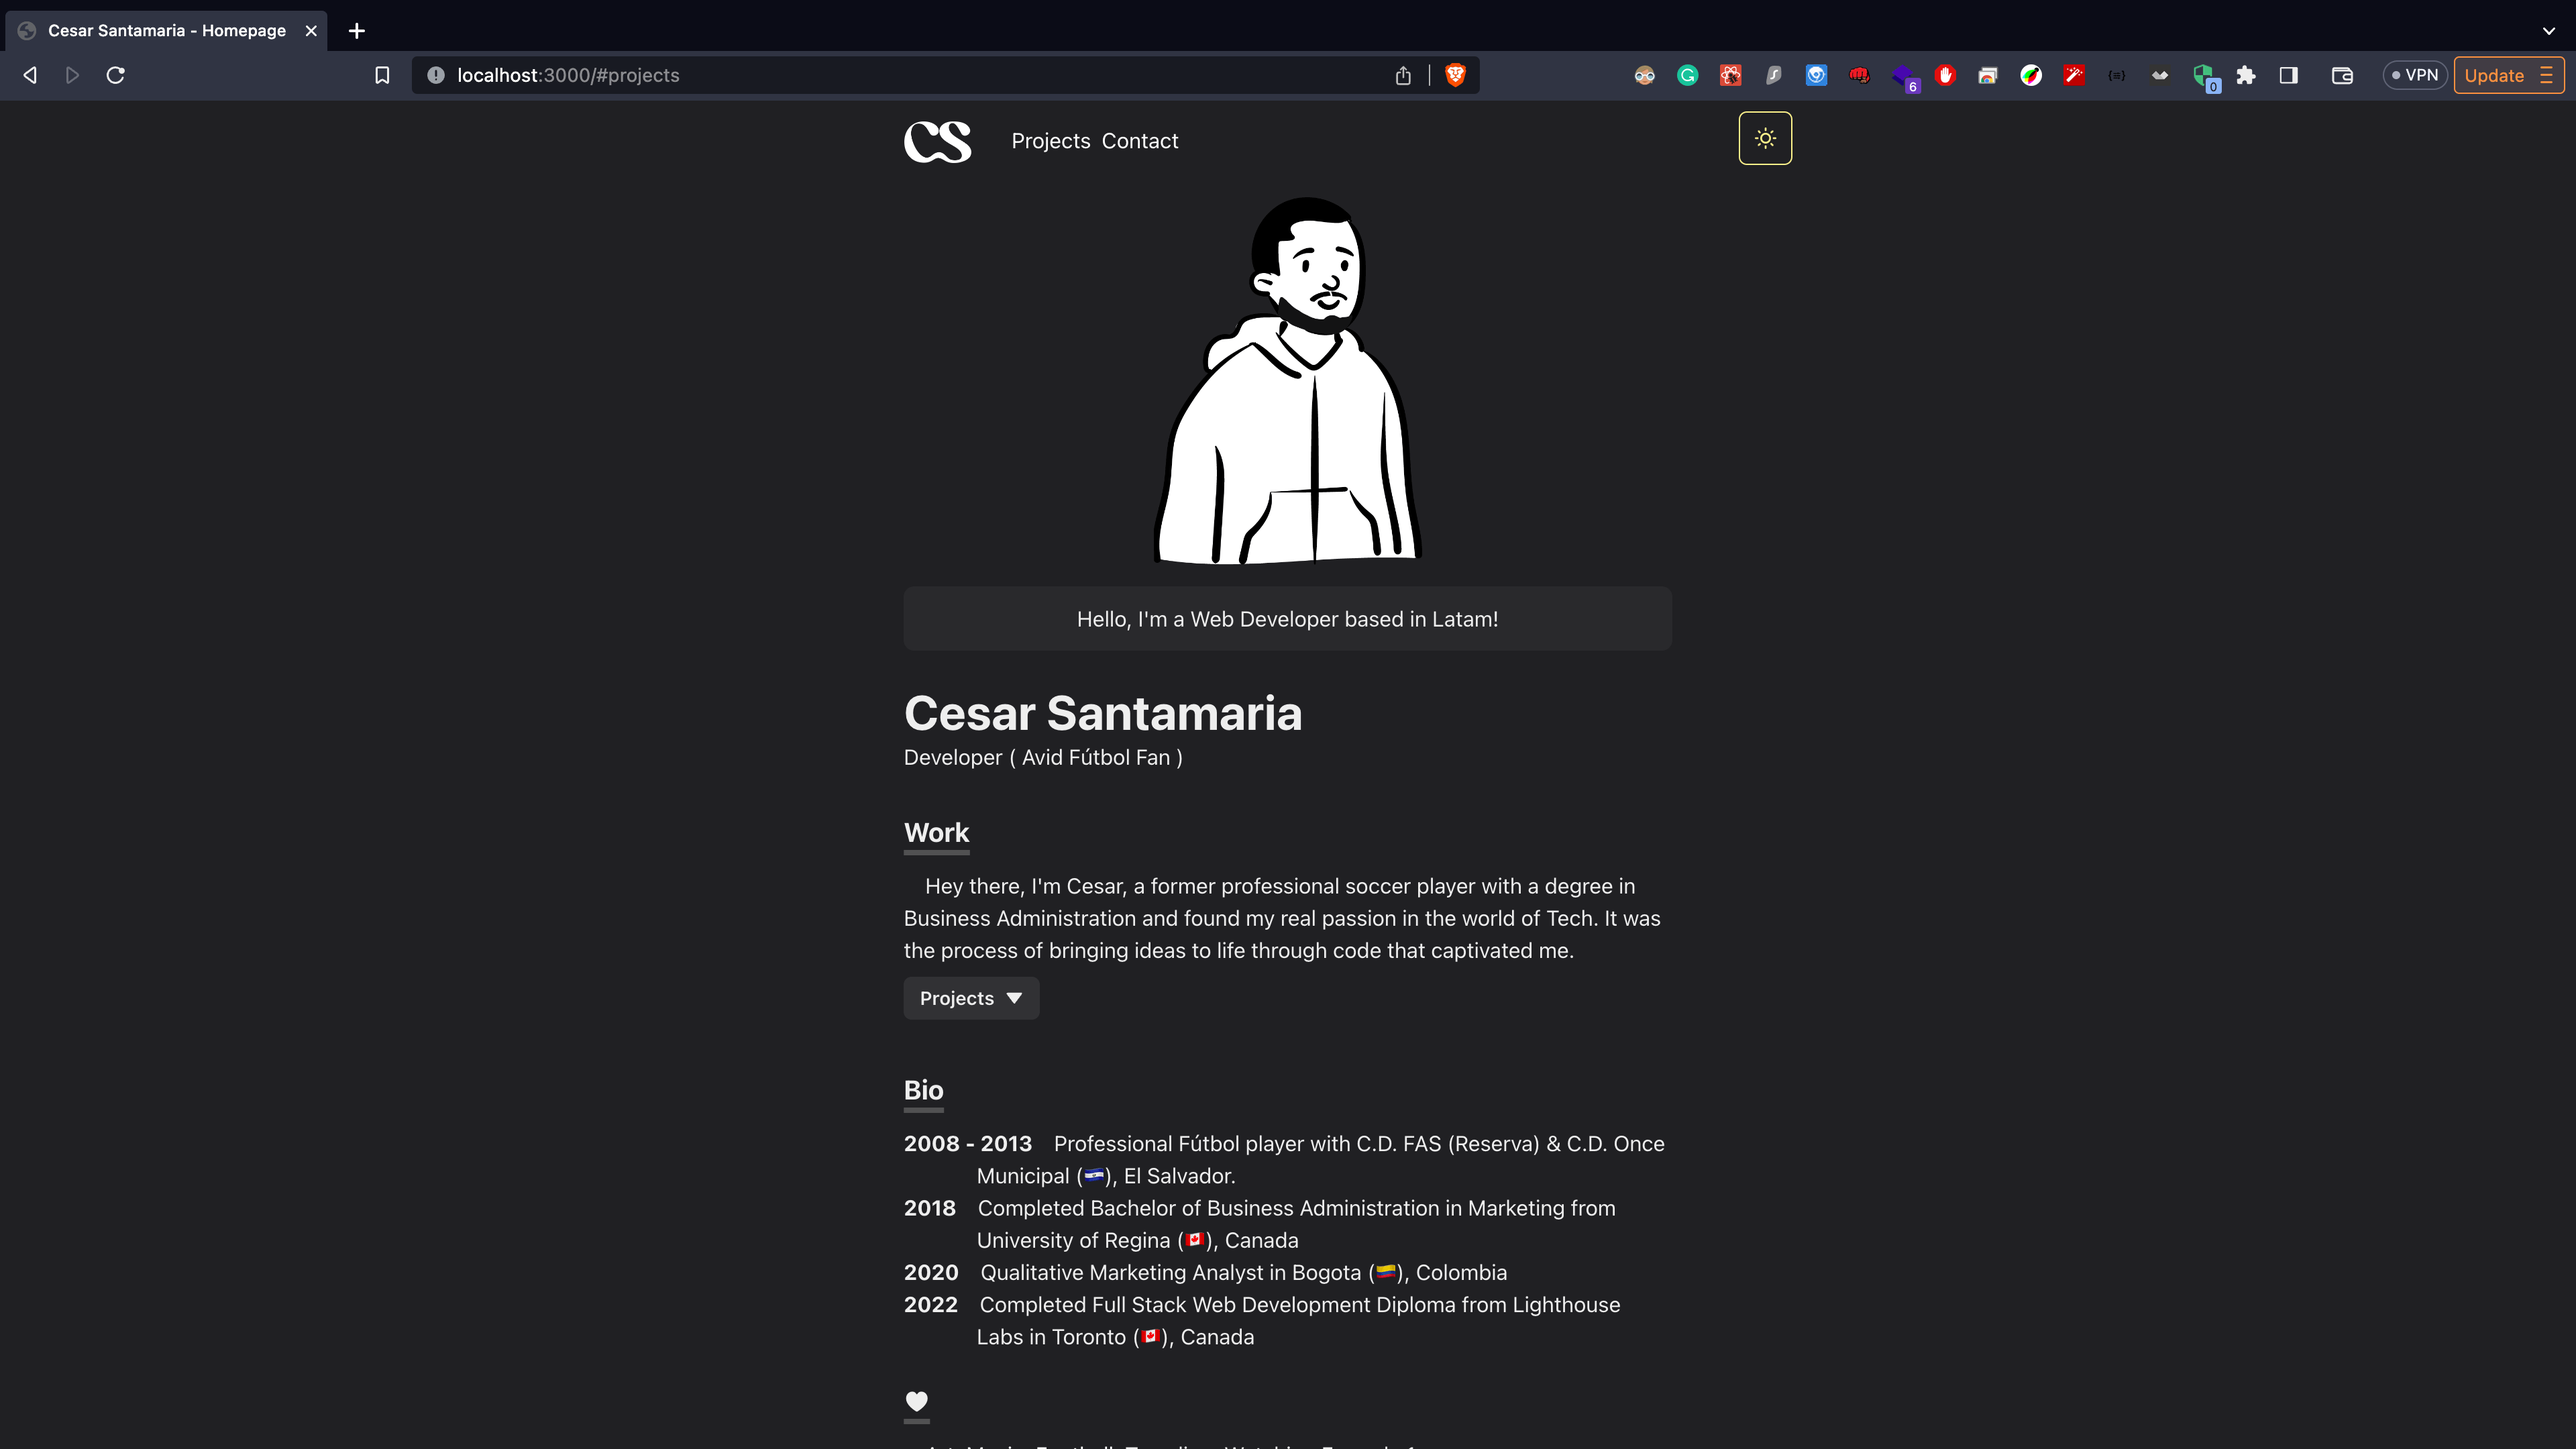
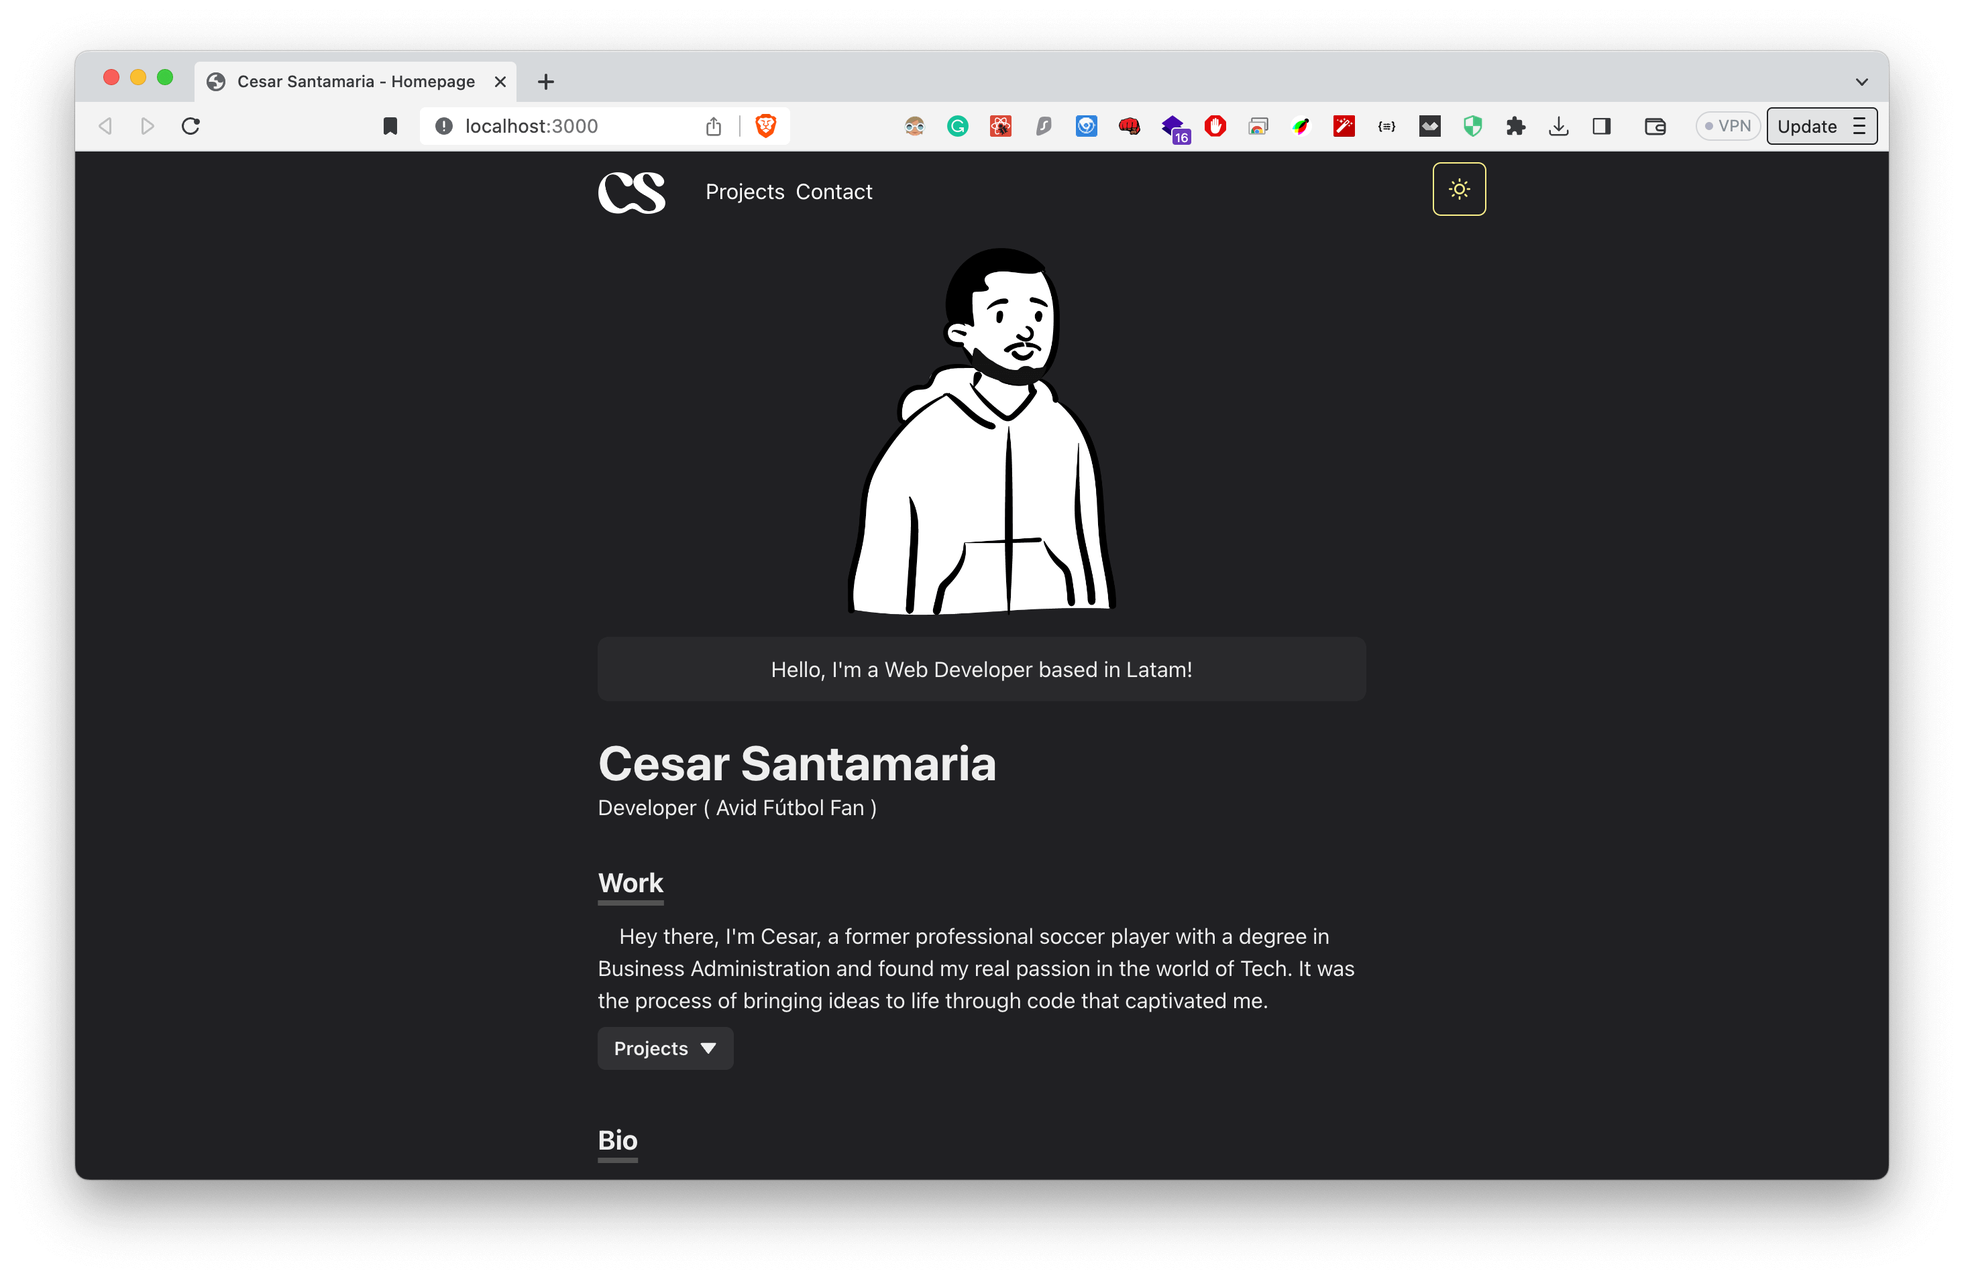
Fix projects section.

diff --git a/index.html b/index.html
@@ -45,7 +45,7 @@
         <div class="nav-container">
           <ul class="primary-navigation flex vertical-align-center" role="list">
             <li class="nav-link">
-              <a class="text-primary fw-regular" href="#home">Home</a>
+              <a class="text-primary fw-regular" href="#">Home</a>
             </li>
             <li class="nav-link">
               <a class="text-primary fw-regular" href="#about">About</a>
@@ -108,19 +108,16 @@
           <div class="subheading-container">
             <p class="fs-subheading">
               Balance performance and flavour: 10% coconut water, caffeine free,
-              800mg of electrolytes and 5 delicious flavours
+              800 mg of electrolytes and 5 delicious flavours
             </p>
           </div>
-          <a href="#about">
-            <button class="button">Learn more</button>
+          <a href="#carousel">
+            <button class="button">Shop</button>
           </a>
         </div>
       </section>
 
-      <section
-        id="carousel"
-        class="carousel container padding-block-900 bg-accent-200"
-      >
+      <section id="carousel" class="carousel padding-block-900 bg-accent-200">
         <div class="splide">
           <h2 class="fs-primary-heading margin-bottom-900">Meet the Crew</h2>
           <!-- Carousel here -->
@@ -147,10 +144,7 @@
         <div class="splide__arrows"></div>
       </section>
 
-      <section
-        id="about"
-        class="about container padding-block-900 bg-accent-300"
-      >
+      <section id="about" class="about padding-block-900 bg-accent-300">
         <div class="about-section-wrapper flex vertical-align-center">
           <div class="profile-image-container">
             <img
@@ -158,13 +152,12 @@
               src="./images/profile.png"
               alt="Profile image of person smiling at camera"
             />
+            <p class="fs-subheading text-align-center margin-bottom-600">
+              👋 Hi im Cesar Santamaria
+            </p>
           </div>
           <!-- Bio -->
           <div class="biography-container">
-            <h3 class="bio-greeting fs-secondary-heading text-align-center">
-              Hi I'm Cesar Santamaria
-            </h3>
-
             <ul role="list" class="biography-items">
               <li>
                 <h3 class="biography-header">
@@ -236,21 +229,31 @@
         </div>
       </section>
 
-      <section class="projects container padding-block-900">
-        <div id="project-container">
-          <h1>PROJECTS:</h1>
+      <section class="projects padding-block-900 bg-accent-300">
+        <h1 class="fs-secondary-heading text-align-center margin-bottom-900">
+          Projects:
+        </h1>
+        <div
+          id="project-container"
+          class="project-container flex horizontal-align-center"
+        >
           <script type="text/template">
             {% for project in projects %}
-              <div>
-                <h2>{{ project.name }}</h2>
-                <p>{{ project.description }}</p>
-                <img src="{{ project.image }}" alt="" srcset="">
-                <button>
-                  <a href="{{ project.github }}">
-                    Github
-                  </a>
-                </button>
+            <div class="projects-wrapper">
+              <img class="project-image" src="{{ project.image }}" alt="web development project screenshot"/>
+              <div class="links-wrapper">
+                <a class="github-link" target="_blank" href="{{ project.github }}">
+                  Github
+                </a>
+                {% if project.site %}
+                <a class="project-link text-primary" target="_blank" href="{{ project.site }}">
+                  Site
+                </a>
+                {% endif %}
               </div>
+              <h2 class="fs-subheading">{{ project.name }}</h2>
+              <p class="text-primary project-description">{{ project.description | truncate: 40  }}</p>
+            </div>
             {% endfor %}
           </script>
         </div>
@@ -258,7 +261,7 @@
 
       <section
         id="contact"
-        class="contact flex horizontal-align-center padding-block-900 bg-accent-200"
+        class="contact flex horizontal-align-center padding-block-900 bg-accent-300"
       >
         <div class="form-container">
           <h2 class="fs-secondary-heading">Contact</h2>
@@ -269,6 +272,7 @@
               name="name"
               id="name"
               placeholder="Name"
+              required
             />
 
             <input
@@ -277,6 +281,7 @@
               name="email"
               id="email"
               placeholder="Email"
+              required
             />
 
             <textarea
@@ -286,14 +291,16 @@
               cols="30"
               rows="10"
               placeholder="Message"
+              required
             ></textarea>
             <button class="button" type="submit">Submit</button>
           </form>
         </div>
       </section>
     </main>
+
     <footer class="padding-block-700 bg-primary-700">
-      <div class="container">
+      <div>
         <div class="flex horizontal-align-center vertical-align-center">
           <div
             class="footer-social-wrapper flex vertical-align-center horizontal-align-center"
@@ -334,7 +341,7 @@
           </div>
           <nav class="footer-nav">
             <ul role="list">
-              <li><a href="#home">Home</a></li>
+              <li><a href="#">Home</a></li>
               <li><a href="#about">About</a></li>
               <li><a href="#contact">Contact</a></li>
             </ul>

diff --git a/css/styles.css b/css/styles.css
@@ -63,7 +63,9 @@ body {
 }
 
 a {
+  color: inherit;
   text-decoration: none;
+  cursor: pointer;
 }
 
 /* Inherit fonts for inputs and buttons */
@@ -162,6 +164,9 @@ select {
   flex-direction: row;
 }
 
+.margin-bottom-600 {
+  margin-bottom: 2rem;
+}
 .margin-bottom-900 {
   margin-bottom: 5rem;
 }
@@ -308,6 +313,45 @@ select {
   box-sizing: border-box;
 }
 
+/* Projects */
+.project-container {
+  display: flex;
+  flex-wrap: wrap;
+  justify-content: center;
+  padding: 0 3.5rem;
+}
+
+.project-image {
+  border-radius: 20px;
+  height: 180px;
+}
+
+.projects-wrapper {
+  margin: 2rem;
+  text-align: center;
+}
+
+.links-wrapper {
+  margin-bottom: 1rem;
+}
+
+.project-description {
+  margin-bottom: 1rem;
+}
+
+.github-link {
+  color: var(--clr-primary-700);
+}
+
+.project-link {
+  margin-left: 3rem;
+  color: var(--clr-primary-700);
+}
+
+.projects-wrapper a:hover {
+  text-decoration: underline;
+}
+
 /* Contact Form */
 .form-container {
   text-align: center;
@@ -333,7 +377,7 @@ label {
 }
 
 .contact button {
-  width: 80%;
+  width: 20%;
   transition: all 0.3s;
 }
 
@@ -391,6 +435,10 @@ label {
   background-color: var(--clr-primary-500);
 }
 
+.button a {
+  color: var(--clr-neutral-100);
+}
+
 /* Links */
 a {
   transition: 0.7s ease;
@@ -417,6 +465,19 @@ a:hover {
 
   .fs-subheading {
     font-size: var(--fs-400);
+  }
+
+  .project-image {
+    height: 100px;
+  }
+
+  .project-description {
+    font-size: var(--fs-400);
+  }
+
+  .projects-wrapper {
+    margin: 0;
+    text-align: center;
   }
 }
 
@@ -501,5 +562,15 @@ a:hover {
 
   .biography-container {
     max-width: 300px;
+  }
+  /* Projects */
+  .project-container {
+    flex-direction: column;
+    align-items: center;
+  }
+
+  .projects-wrapper {
+    width: auto;
+    margin-bottom: 3rem;
   }
 }
